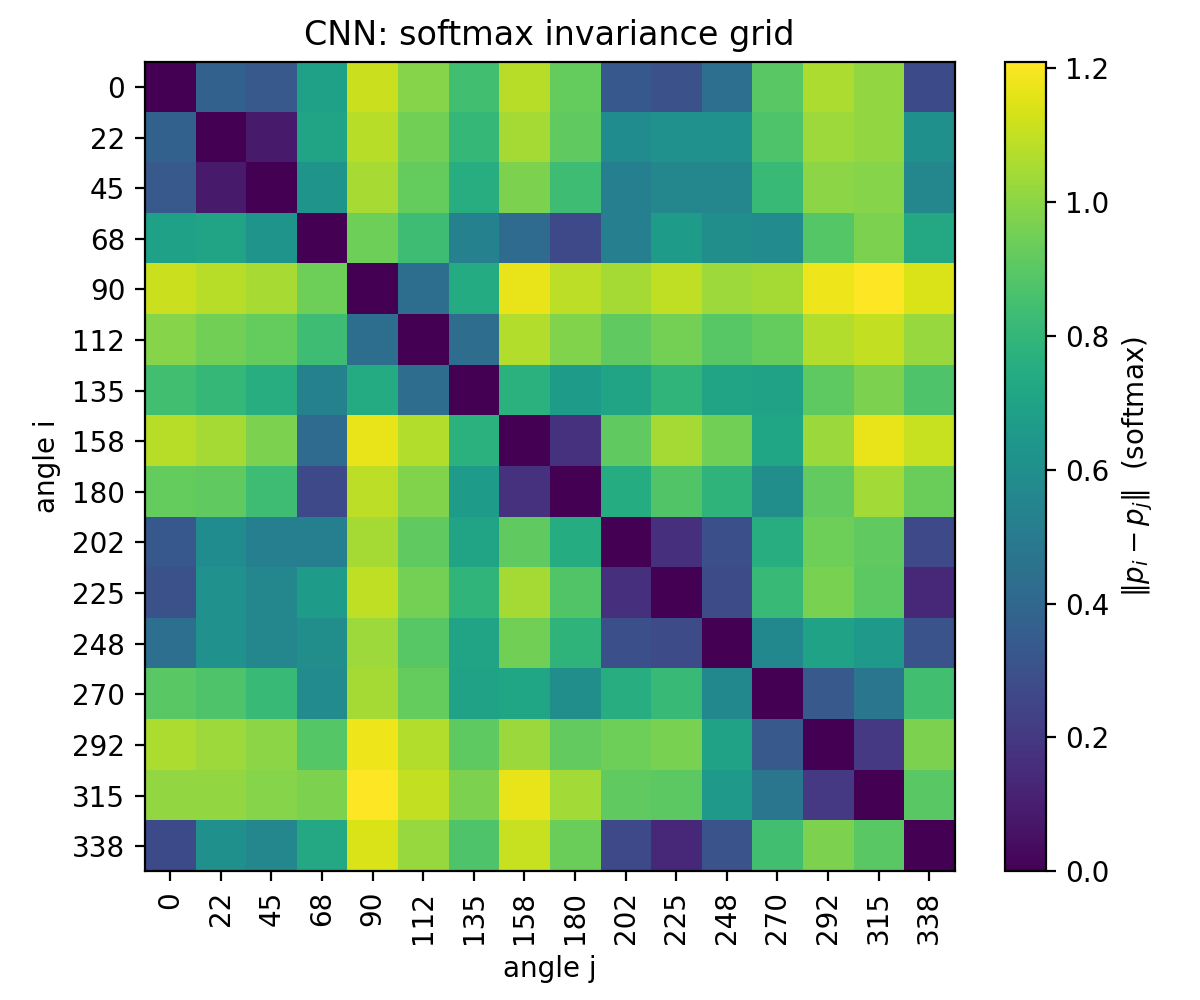
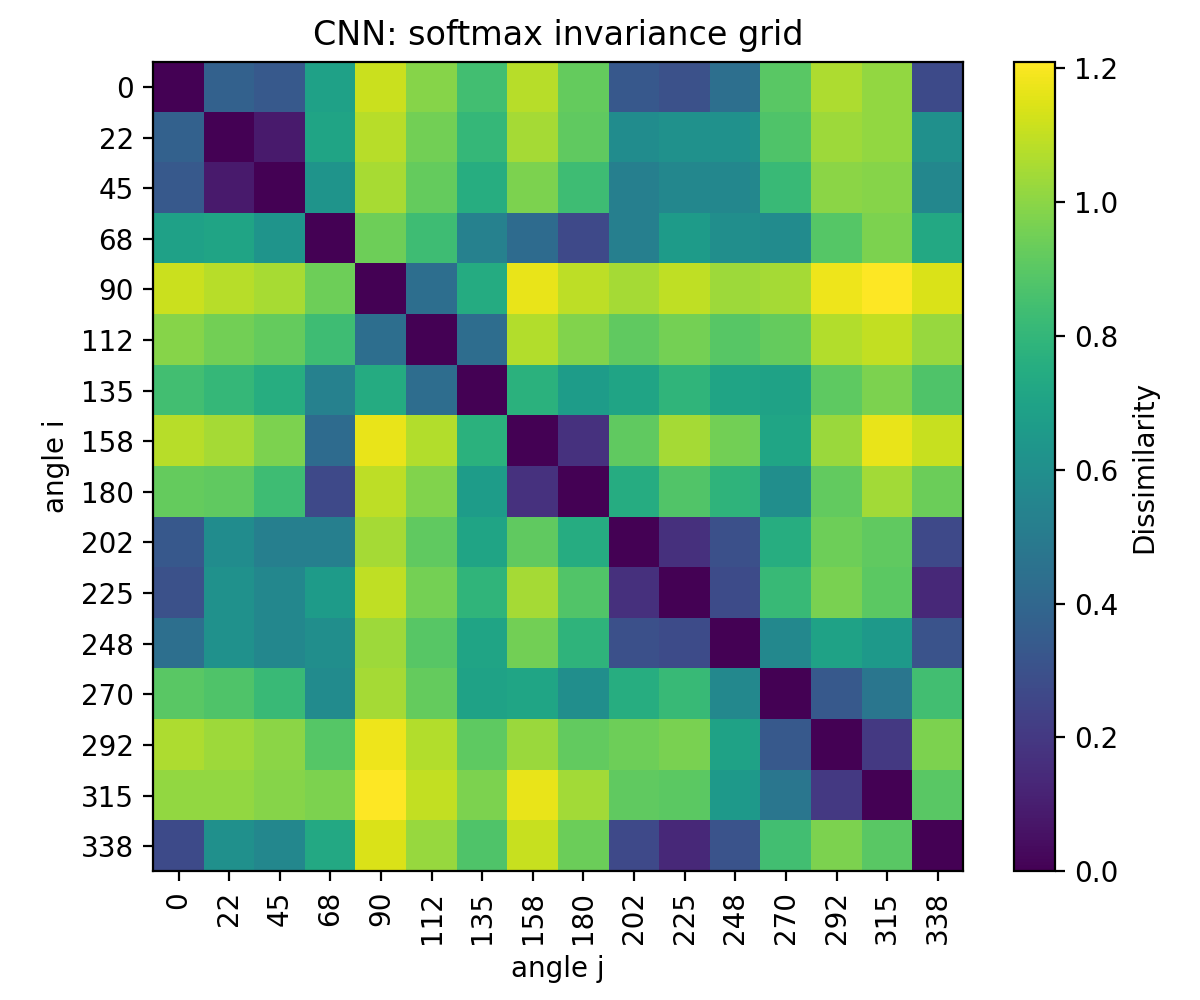
Updated plots for equivariance

diff --git a/src/quantified_equivariance_test.py b/src/quantified_equivariance_test.py
@@ -36,7 +36,8 @@ WEIGHTS = {
 N_ROTATIONS   = 16     # number of angles, full circle (multiple of 4 -> 90-deg pairs exist)
 TARGET_LAYER  = 6      # depth of the partial model used for the scalar metric table
 NUM_IMAGES    = 1      # images to produce per-image plots/grids for
-NUM_QUANT_IMG = 100    # images to average the scalar metrics over
+NUM_QUANT_IMG = 200    # images to average the scalar metrics over
+N_GRID_IMG    = 200     # images to average the feature equivariance grid over
 CHANNEL       = 1      # default feature channel (per-plot channel is set in main)
 PADDING       = True
 DEVICE        = "cuda" if torch.cuda.is_available() else "cpu"
@@ -150,24 +151,26 @@ def plot_class_scores(mat, name, idx, kind, cls):     # mat [N_angles,10]; cls =
 def plot_invariance_grid(probs, name, idx):      # invariance on softmax probs: ||p_i - p_j||
     D = torch.cdist(probs, probs).cpu().numpy()
     plt.figure(figsize=(6, 5))
-    plt.imshow(D, cmap="viridis"); plt.colorbar(label=r"$\|p_i - p_j\|$  (softmax)")
+    plt.imshow(D, cmap="viridis"); plt.colorbar(label=r"Dissimilarity")
     plt.xticks(range(len(ANGLES)), [f"{a:.0f}" for a in ANGLES], rotation=90)
     plt.yticks(range(len(ANGLES)), [f"{a:.0f}" for a in ANGLES])
     plt.xlabel("angle j"); plt.ylabel("angle i"); plt.title(f"{name}: softmax invariance grid")
     plt.tight_layout(); plt.savefig(OUT_DIR / f"{name}_invariance_grid_img{idx}.png", dpi=200); plt.close()
 
 
-def plot_feature_diffgrid(model, name, target_layer, img):   # equivariance grid at a given depth
-    feats = feats_at(model, target_layer, img)
-    n = len(feats)
-    mask = circular_mask(*feats[0].shape[-2:], feats[0].device)
+def plot_feature_diffgrid(model, name, target_layer, imgs):  # MEAN equivariance grid over imgs
+    n = len(ANGLES)
     D = np.zeros((n, n))
-    for i in range(n):
-        for j in range(n):
-            aligned = rotate(feats[i], ANGLES[j] - ANGLES[i], interpolation=InterpolationMode.BILINEAR, fill=0)
-            D[i, j] = masked_rel_l2(aligned, feats[j], mask)
+    for img in imgs:                                  # accumulate the per-image grid, then average
+        feats = feats_at(model, target_layer, img)
+        mask  = circular_mask(*feats[0].shape[-2:], feats[0].device)
+        for i in range(n):
+            for j in range(n):
+                aligned = rotate(feats[i], ANGLES[j] - ANGLES[i], interpolation=InterpolationMode.BILINEAR, fill=0)
+                D[i, j] += masked_rel_l2(aligned, feats[j], mask)
+    D /= len(imgs)
     plt.figure(figsize=(6, 5))
-    plt.imshow(D, cmap="viridis", vmin=0, vmax=1); plt.colorbar(label=r"rel-L2$(\;\rho_{j-i}\,f(\rho_i x),\ f(\rho_j x)\;)$")
+    plt.imshow(D, cmap="viridis", vmin=0, vmax=1); plt.colorbar(label=r"Equivariance dissimilarity")
     plt.xticks(range(n), [f"{a:.0f}" for a in ANGLES], rotation=90)
     plt.yticks(range(n), [f"{a:.0f}" for a in ANGLES])
     plt.xlabel("angle j"); plt.ylabel("angle i")
@@ -192,10 +195,11 @@ def main():
                             ("CNN", 2, 3), ("CNN", 6, 15)]:
         plot_feature_grid(models[name], name, layer, ch, img0)
 
-    # --- Feature equivariance grids at layer 2 and 6, both models ---
+    # --- Feature equivariance grids at layer 2 and 6, both models (mean over images) ---
+    grid_imgs = [data[i][0] for i in range(N_GRID_IMG)]
     for name, model in models.items():
         for layer in (2, 6):
-            plot_feature_diffgrid(model, name, layer, img0)
+            plot_feature_diffgrid(model, name, layer, grid_imgs)
 
     # --- Invariance plots + scalar metrics (table uses global TARGET_LAYER) ---
     summary = {}
